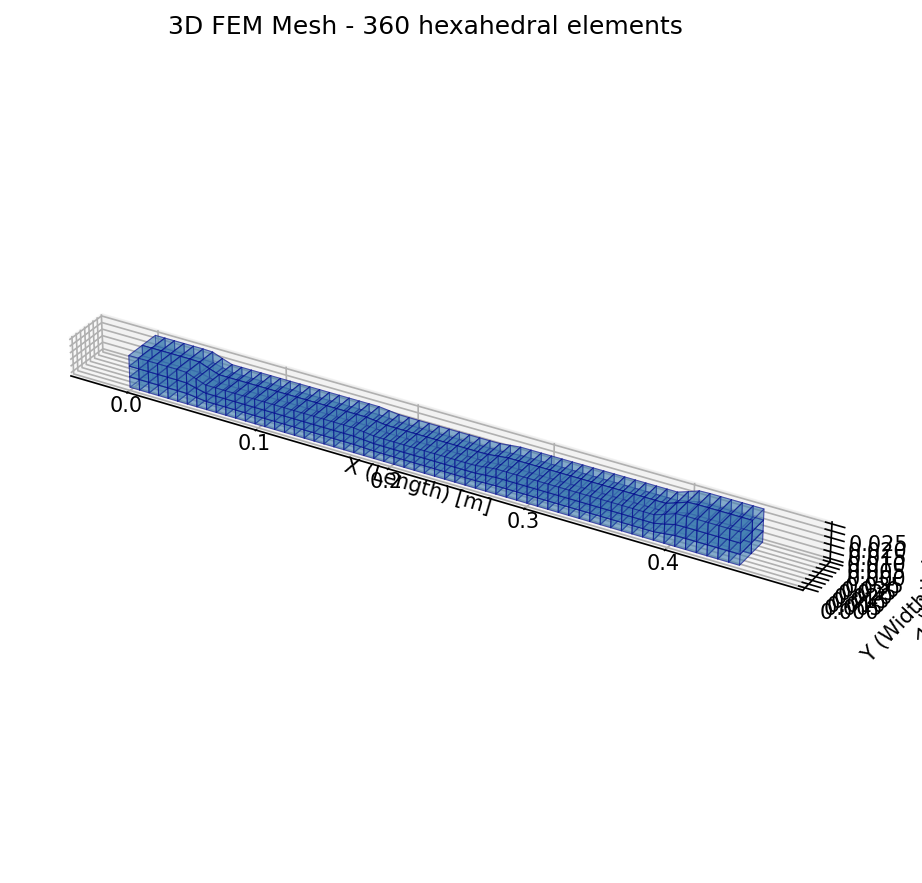
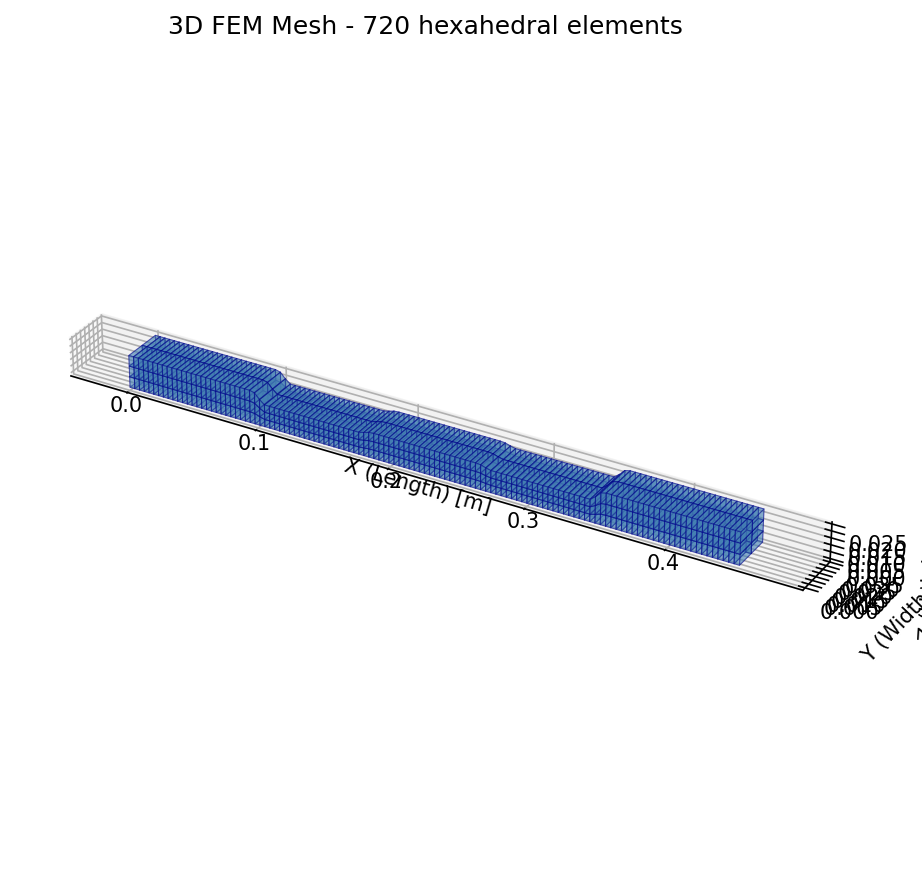
Increase default 3D mesh resolution to 120 elements in length
Higher resolution better captures sharp undercut transitions.
Updated mesh: 120 x 2 x 3 = 720 elements, 4356 DOF

Changed region(s): [[0.1215, 0.3669, 0.82, 0.6421], [0.3948, 0.0, 0.4252, 0.0612]]

diff --git a/example_sapele_xylophone.py b/example_sapele_xylophone.py
@@ -53,8 +53,8 @@ def main():
                         help="Number of elements in width direction for 3D (default: 2)")
     parser.add_argument("--nz", type=int, default=3,
                         help="Number of elements in thickness direction for 3D (default: 3)")
-    parser.add_argument("--nx-3d", type=int, default=60,
-                        help="Number of elements in length direction for 3D (default: 60)")
+    parser.add_argument("--nx-3d", type=int, default=120,
+                        help="Number of elements in length direction for 3D (default: 120)")
     args = parser.parse_args()
 
     # Bar dimensions (convert mm to meters)
